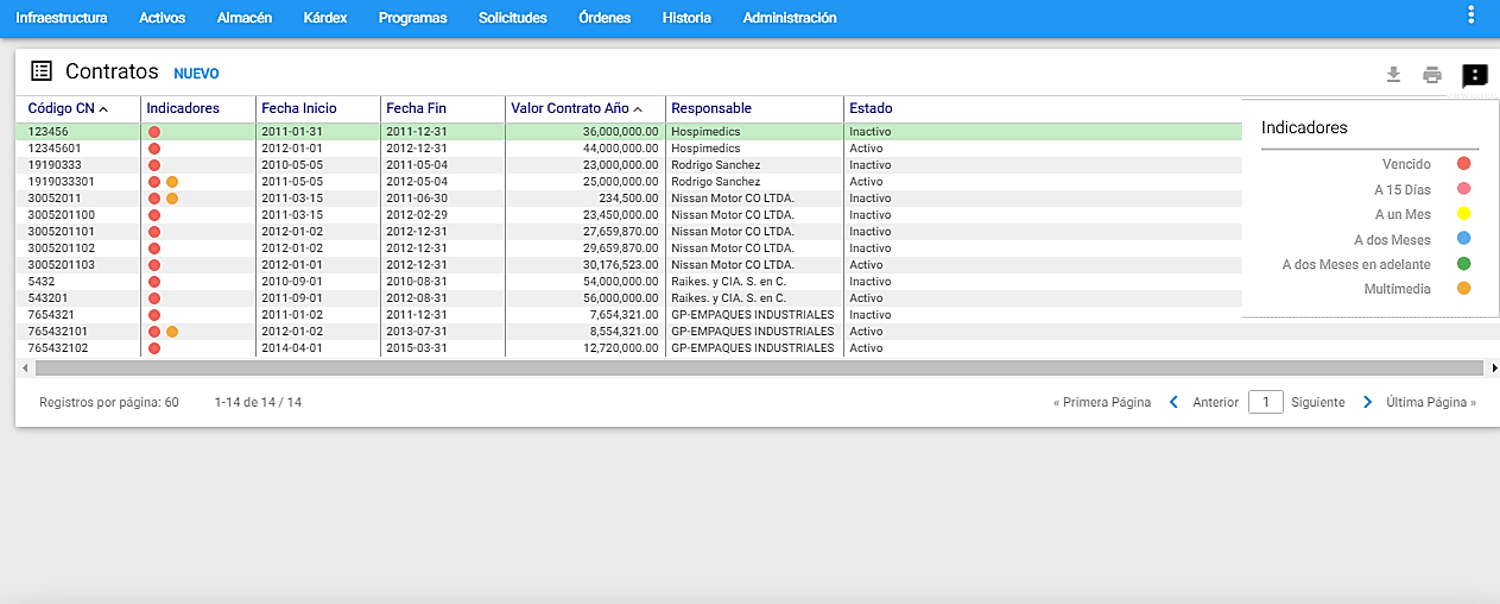
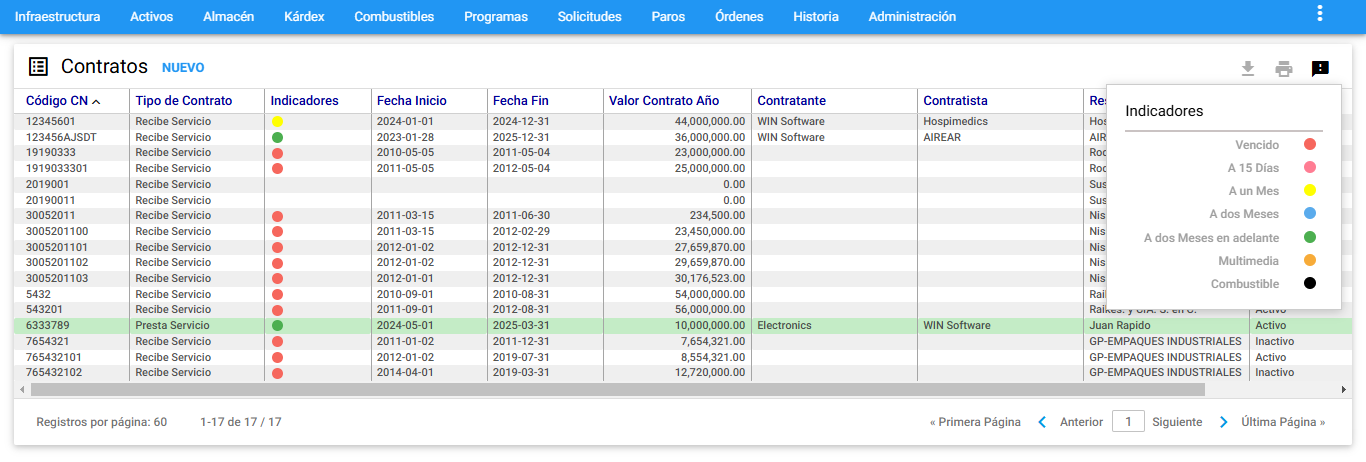
actualizacion contratos

diff --git a/_docs/02_03_tables.md b/_docs/02_03_tables.md
@@ -497,7 +497,7 @@ Para ilustrar mejor este concepto definimos a continuación algunos ejemplos de 
 - FC-Fundición. Sostenimiento.
 
 Se recomienda utilizar los nombres de las Ubicaciones Físicas que la cultura  empresarial ha acostumbrado manejar. Existe disponible un espacio de 60 caracteres en la descripción de la Ubicación Física. Es posible también mezclar una porción de código y lenguaje natural.
-
+ 
 En el ejemplo anterior FC es el apócope de una planta en una fábrica. Esta planta a su vez está conformada por varios departamentos de proceso, uno de los cuales es Fundición, que a su vez se compone por varias secciones como Fleje,  Hornos, las Líneas de proceso y la sección de Sostenimiento.
 
 Cuando la Ubicación Física es un criterio para seleccionar en un subgrupo en Activos o en Órdenes de Trabajo activas o históricas, es posible referenciar una Ubicación Física global, así:
@@ -529,7 +529,7 @@ A continuación se describen los campos que componen el registro. Sobre cada cam
 
 **Estado:** El campo estado se utiliza para definir si la UF actual se encuentra Activa o Inactiva. Este Estado se utiliza para posibilitar o inhabilitar el despliegue de UF en otros contextos (Activos, OT, PM, SS, etc.). De esta forma, una UF inactiva NO aparece al intentar crear Activos, OT u otros.
 
-> _**Nota:** La dirección y la ciudad son campos que son configurados en el módulo de Administración en la transacción Valores por Defecto._
+> _**Nota:** La dirección y la ciudad son campos que son configurados en el módulo de <a class="btn cl-white bg-blue px-6"> Administración </a> en la transacción Valores por Defecto._
 
 ### Subgrupo Ubicaciones Físicas
 
@@ -580,19 +580,19 @@ _**Imagen 39.** Subgrupo UF Criterio Nombre UF_
 
 **Unidad de Medida Área:** Lista las Unidades de Medida registradas en la tabla de Unidades de Medida, se elige una de la lista. 
 
-También se puede elegir la unidad de medida mediante el uso de comodines, para ello, se debe dar clic al icono de candado <span class="mdi mdi-lock"></span>, a continuación este ícono se muestra abierto <span class="mdi mdi-lock-open-outline"></span> y permite escribir. Ejemplo, si se escribe metros%, el sistema entiende que debe seleccionar aquellas UF cuya unidad de medida comience por la palabra **“metros”**. El porcentaje a continuación, es un carácter comodín que significa **“todos”**, como se indica a continuación:
+También se puede elegir la unidad de medida mediante el uso de comodines, para ello, se debe dar clic al icono  <span class="mdi mdi-lock"></span>, a continuación este ícono se muestra abierto <span class="mdi mdi-lock-open-outline"></span> y permite escribir. Ejemplo, si se escribe metros%, el sistema entiende que debe seleccionar aquellas UF cuya unidad de medida comience por la palabra **“metros”**. El porcentaje a continuación, es un carácter comodín que significa **“todos”**, como se indica a continuación:
 
 ![Procesar imagen](../../assets/images/cap02/chp02_img20.png)
 _**Imagen 40.** Subgrupo UF Criterio Unidad de Medida Área_
 
 **Unidad de Medida Capacidad:** Busca las Ubicaciones Físcas que tengan definido este campo. Las Unidades de Medida que se despliegan en la lista están registradas en la tabla de Unidades de Medida. Se elige de la lista la Unidad de Medida deseada.
 
-También se puede elegir la unidad de medida mediante el uso de comodines, para ello, se debe dar clic al icono candado <span class="mdi mdi-lock"></span>, a continuación este ícono se muestra abierto <span class="mdi mdi-lock-open-outline"></span> y permite escribir. Ejemplo, si se escribe la palabra bloques%, el sistema realiza una búsqueda de aquellas UF que en cualquier parte del campo tengan el nombre de la palabra digitada, en este caso, la palabra **“bloques”**, como se muestra a continuación:
+También se puede elegir la unidad de medida mediante el uso de comodines, para ello, se debe dar clic al icono <span class="mdi mdi-lock"></span>, a continuación este ícono se muestra abierto <span class="mdi mdi-lock-open-outline"></span> y permite escribir. Ejemplo, si se escribe la palabra bloques%, el sistema realiza una búsqueda de aquellas UF que en cualquier parte del campo tengan el nombre de la palabra digitada, en este caso, la palabra **“bloques”**, como se muestra a continuación:
 
 ![Procesar imagen](../../assets/images/cap02/chp02_img21.png)
 _**Imagen 41.** Subgrupo UF Criterio Área_
 
-> _**Nota:** Es importante tener en cuenta que cuando se están realizando los subgrupos  se pueden utilizar uno o varios de los criterios anteriores simultáneamente. Además es posible hacer unión de selecciones. Esto significa que inmediatamente después de haber realizado una selección es posible hacer otra y unir el resultado de las dos. Para ello, tras definir los criterios de la segunda selección se da un clic al botón <a class="btn white">Mas <span class="mdi mdi-plus-circle"></span></a> , en lugar de darlo al botón <a class="btn white">aceptar <span class="mdi mdi-check-circle"></span></a>._
+> _**Nota:** Es importante tener en cuenta que cuando se están realizando los subgrupos  se pueden utilizar uno o varios de los criterios anteriores simultáneamente. Además es posible hacer unión de selecciones. Esto significa que inmediatamente después de haber realizado una selección es posible hacer otra y unir el resultado de las dos. Para ello, tras definir los criterios de la segunda selección se acciona el botón <a class="btn white">MAS <span class="mdi mdi-plus-circle"></span></a> , en lugar de accionar el botón <a class="btn white">ACEPTAR <span class="mdi mdi-check-circle"></span></a>._
 
 
 ## Contratos
@@ -616,13 +616,16 @@ La renovación de contratos se realiza utilizando la numeración del contrato an
 ![Procesar Imagen ](../../assets/images/cap02/chp02_img60.png)
 _**Imagen 43.** Ventana Detalle del Contrato_
 
-En la gráfica anterior, Ventana Detalle del Contrato, se aprecian sus componentes y sus respectivos contenidos. Se encuentra la información relevante al Contrato seleccionado en el Visor.
+En la gráfica anterior, Ventana Detalle del Contrato. Se encuentra la información relevante al Contrato seleccionado en el Visor:
 
-A continuación se describen los campos que componen el registro, sobre cada campo se da una breve explicación:
+
+#### Identificación
 
 **Código CN:** En este campo que tiene una capacidad de quince caracteres se registra el número del Contrato. Es posible cambiar el código del contrato sin afectar la asociación existente entre el contrato modificado y otros módulos, y sin obtener mensajes de error por este intento de modificación.
 
 **Descripción:** En este campo se escribe una corta descripción del Contrato que se está definiendo.
+
+<a class="btn cl-black"><span class="mdi mdi-checkbox-blank-outline"> Combustible </span></a>: De marcar esta opción el Contrato se destina al Consumo de Combustibles, esto permite llevar el Control del Gasto del Contrato según las relaciones realizadas en el módulo de Consumo de <a class="btn cl-white bg-blue px-6"> Combustibles </a>.
 
 **Objeto:** En este campo se establece la finalidad del Contrato acordado por las partes.
 
@@ -632,13 +635,27 @@ A continuación se describen los campos que componen el registro, sobre cada cam
 
 **Fecha Fin Vigencia:** En este campo se define la fecha en la que está prevista la terminación de la vigencia del Contrato.
 
+
 **Valor Contrato Año:** En este campo se indica el valor total anual del Contrato. Se habla de Valor Contrato Año refiriéndose a aquellos Contratos que se realizan anualmente, por ejemplo, el mantenimiento anual de los aires acondicionados. En otros  casos se refiere al costo total del contrato durante su vigencia.
 
-**Responsable:** Aquí se registra el nombre propio o la razón social de la persona natural o jurídica que es Responsable, como contratista, del manejo y ejecución del contrato. Los contratistas que se registran en esta tabla deben haber sido creados previamente  en la tabla de Terceros, y su tipo debe ser Responsable Externo / Contratista (RX).
 
-**Centro de Costo:** Para registrar el código correspondiente al Cliente externo al que se le presta servicio a través del Contrato. Este campo no tiene ninguna incidencia en otros casos.
+**Tipo de Contrato:** Se establecen dos tipos:
 
-**Sub CC:** Este campo siempre está bloqueado y muestra el Código Sub CC asociado al Centro de Costo elegido.
+
+- **Se recibe el servicio:** Un tercero externo (RX) presta el servicio como contratista y la compañía recibe el servicio como contratante. Los costos asociados al contrato son la mano de Obra de externa, Materiales/Repuestos y Otros Conceptos de Costo asociados a las Órdenesde Trabajo relacionadas a estos contratos.
+
+- **Se presta el servicio:** Un tercero interno (RI) presta el servicio como contratista y una compañía externa recibe el servicio como contratante. Los costos asociados al contrato son la mano de Obra de Interna, Materiales/Repuestos y Otros Conceptos de Costo asociados a las Órdenes de Trabajo relacionadas a estos contratos.
+
+**Contratante:** Es el nombre de la organización que contrata el servicio. 
+
+**Contratista:** Es el nombre del tercero que presta el servicio.
+
+**Responsable:** Según el tipo de contrato aqui se registra el nombre propio o la razón social de la persona natural o jurídica que es Responsable, como contratista, del manejo y ejecución del contrato. Los contratistas que se registran en esta tabla deben haber sido creados previamente  en la tabla de Terceros, y su tipo debe ser Responsable Externo / Contratista (RX) ó RI (Responsable Interno según el tipo de contrato).
+
+
+**Centro de Costo:** Para registrar el código correspondiente al Cliente externo al que se le presta servicio a través del Contrato. Este campo no tiene ninguna incidencia en otros casos y aplica principalmente cuando es la organización la que presta el servicio.
+
+
 
 **Estado:** Se selecciona el estado del contrato, puede encontrarse Activo o Inactivo.
 
@@ -648,7 +665,7 @@ A continuación se describen los campos que componen el registro, sobre cada cam
 
 **Presupuesto Pendiente por ejecutar:** Muestra cuanto valor le resta a dicho contrato para terminar.
 
-**Gasto Real ejecutado en OT pendientes:** En este campo se muestra el valor total del gasto real en OT cuyo estado se encuentra pendiente.
+**Gasto Real ejecutado en OT pendientes:** En este campo se muestra el valor total del gasto real en las OTs que aún se encuentran en el módulo de <a class="btn cl-white bg-blue px-6"> Órdenes </a>.
 
 ###  Multimedia: Contratos
 
@@ -657,7 +674,6 @@ Esta nueva funcionalidad permite asociar el Contrato de forma digital.
 ![Procesar Imagen](../../assets/images/cap02/chp02_img61.png)
 _**Imagen 44.** Ventana Detalle del Contrato (Multimedia)_
 
-En la gráfica anterior, Porción Multimedia del Contrato, se aprecian sus componentes y sus respectivos contenidos.
 
 A través de la ventana Multimedia se adjunta información adicional al Contrato en cada una de sus carpetas asignadas. Esta opción permite asociar al Contrato, uno o varios documentos, con el  objetivo de facilitar el trabajo a realizar, o guiarlo, o detallarlo minuciosamente. Se aceptan documentos de extensiones .DOC, XLS, PDF, JPG, es decir, de Microsoft Word o Microsoft Excel, Acrobat o Imágenes varias.
 

diff --git a/_components/buttons.md b/_components/buttons.md
@@ -330,7 +330,7 @@ almacén :
 <a class="btn bg-white cl-black">Subir Archivo</a>. 
 
 
-mdi-folder-multiple-image
+
 
 <span class="mdi mdi-folder-multiple-image"></span>
 
@@ -349,6 +349,9 @@ mdi-folder-multiple-image
 
 
 <a class="btn cl-gray"><span class="mdi mdi-checkbox-blank-outline"> Exportar Todos Los Campos </span></a>
+
+
+<a class="btn cl-gray"><span class="mdi mdi-checkbox-blank-outline"> Combustible </span></a>
 
 <a class="btn bg-gray cl-black">CANCELAR</a>
 
